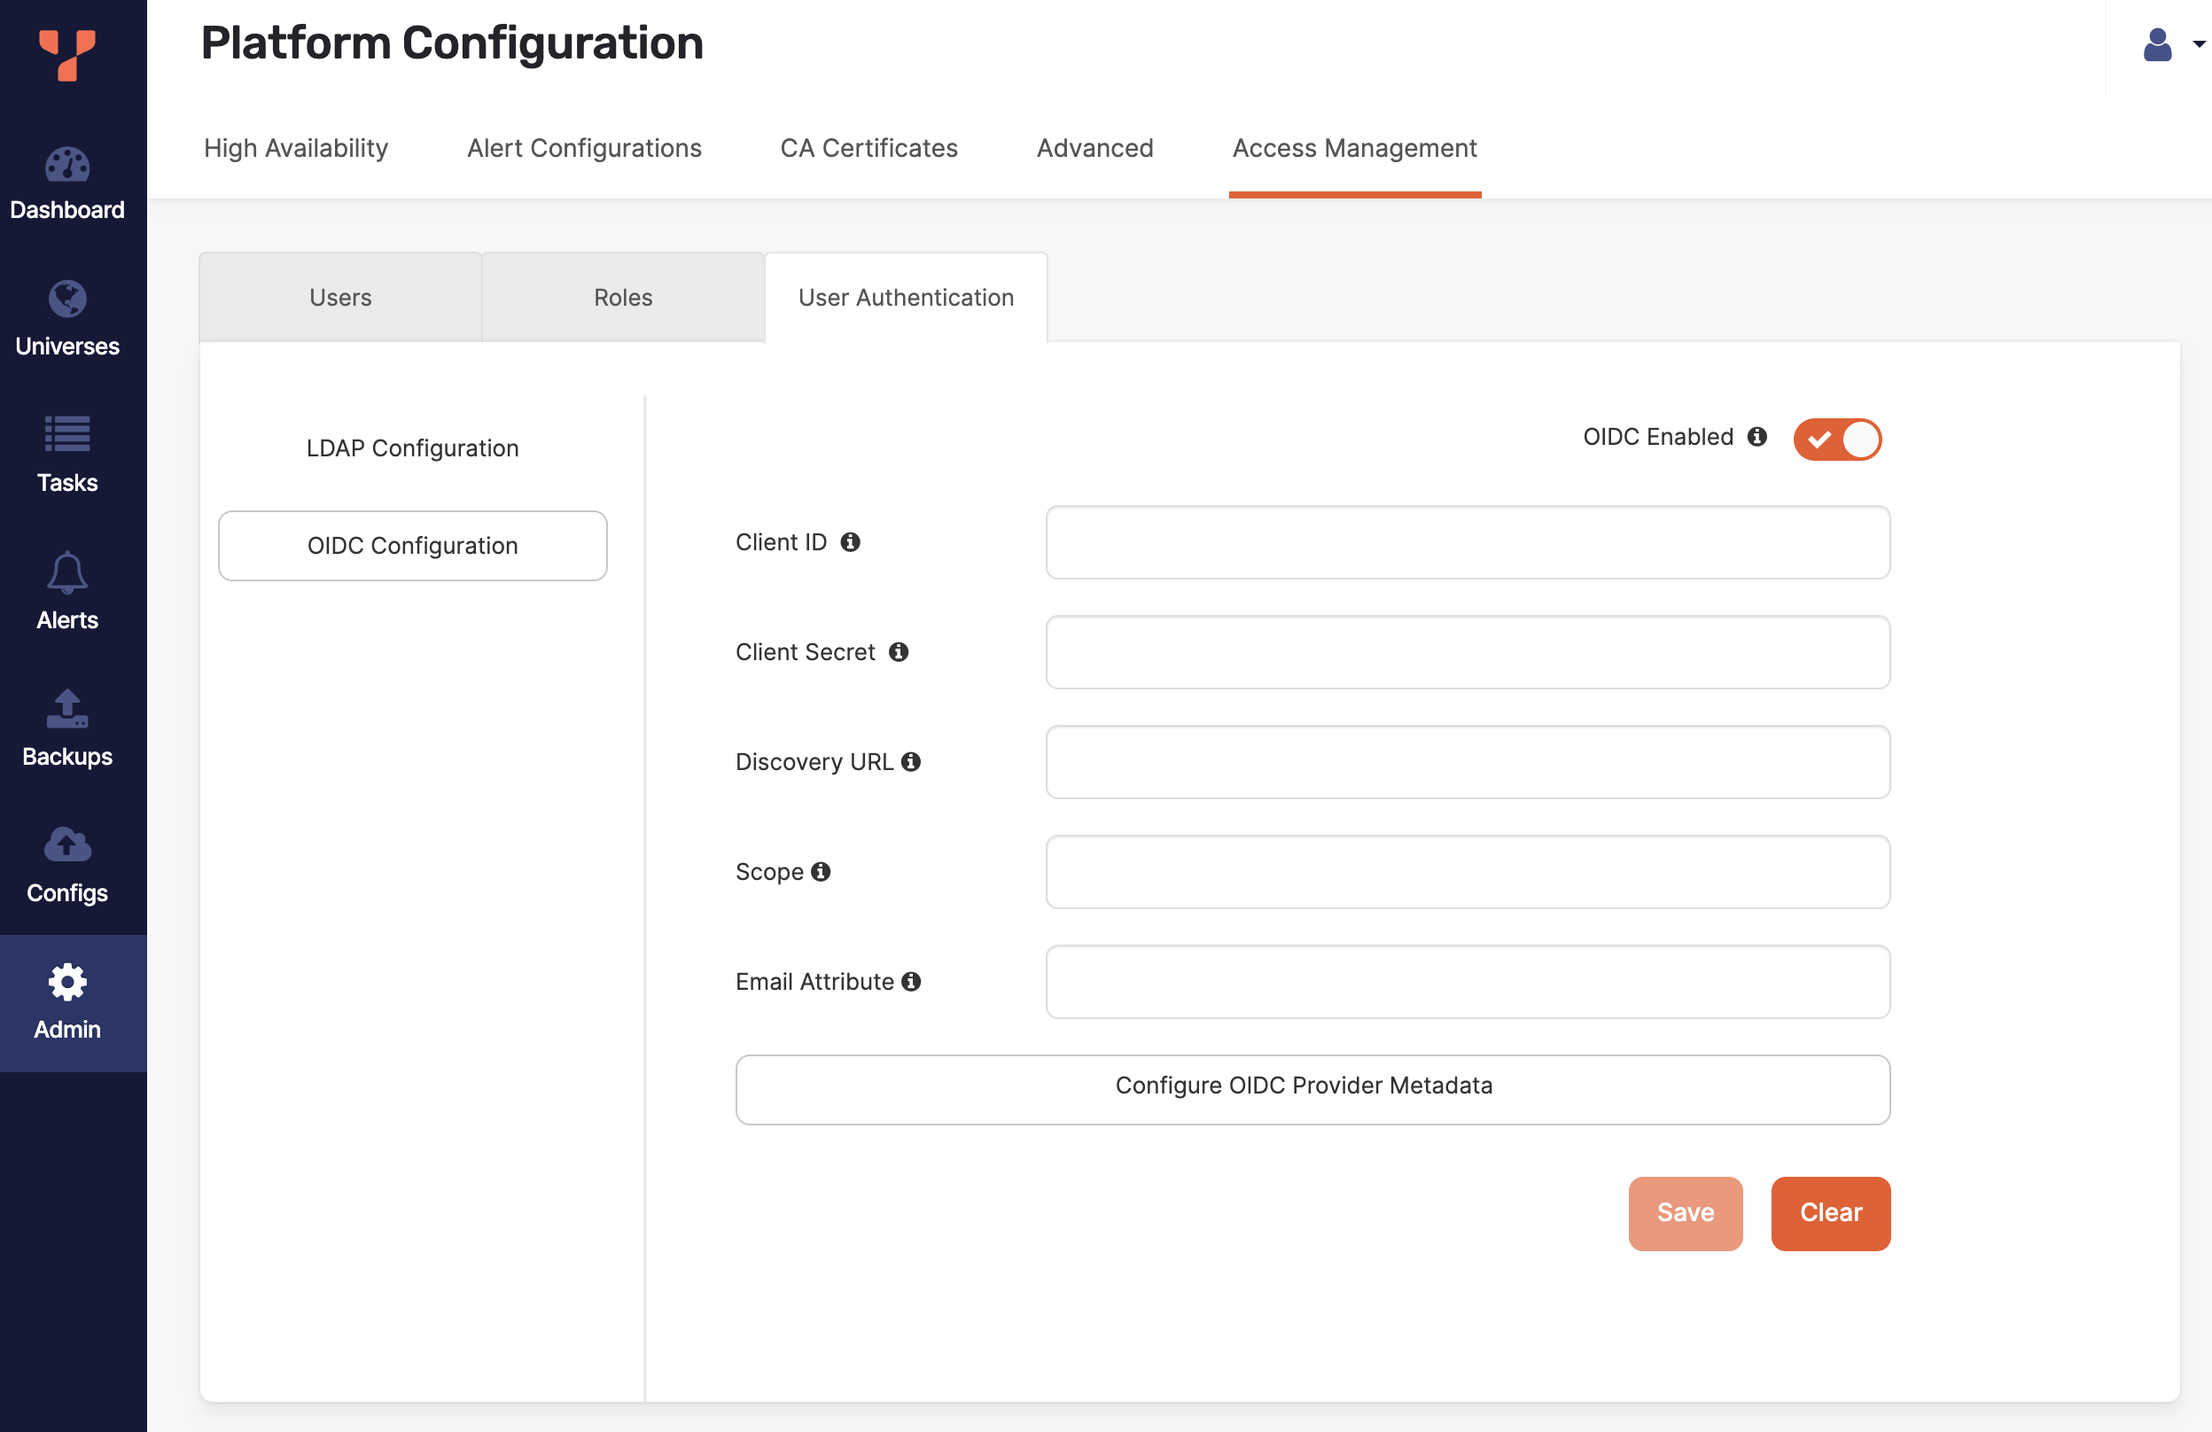
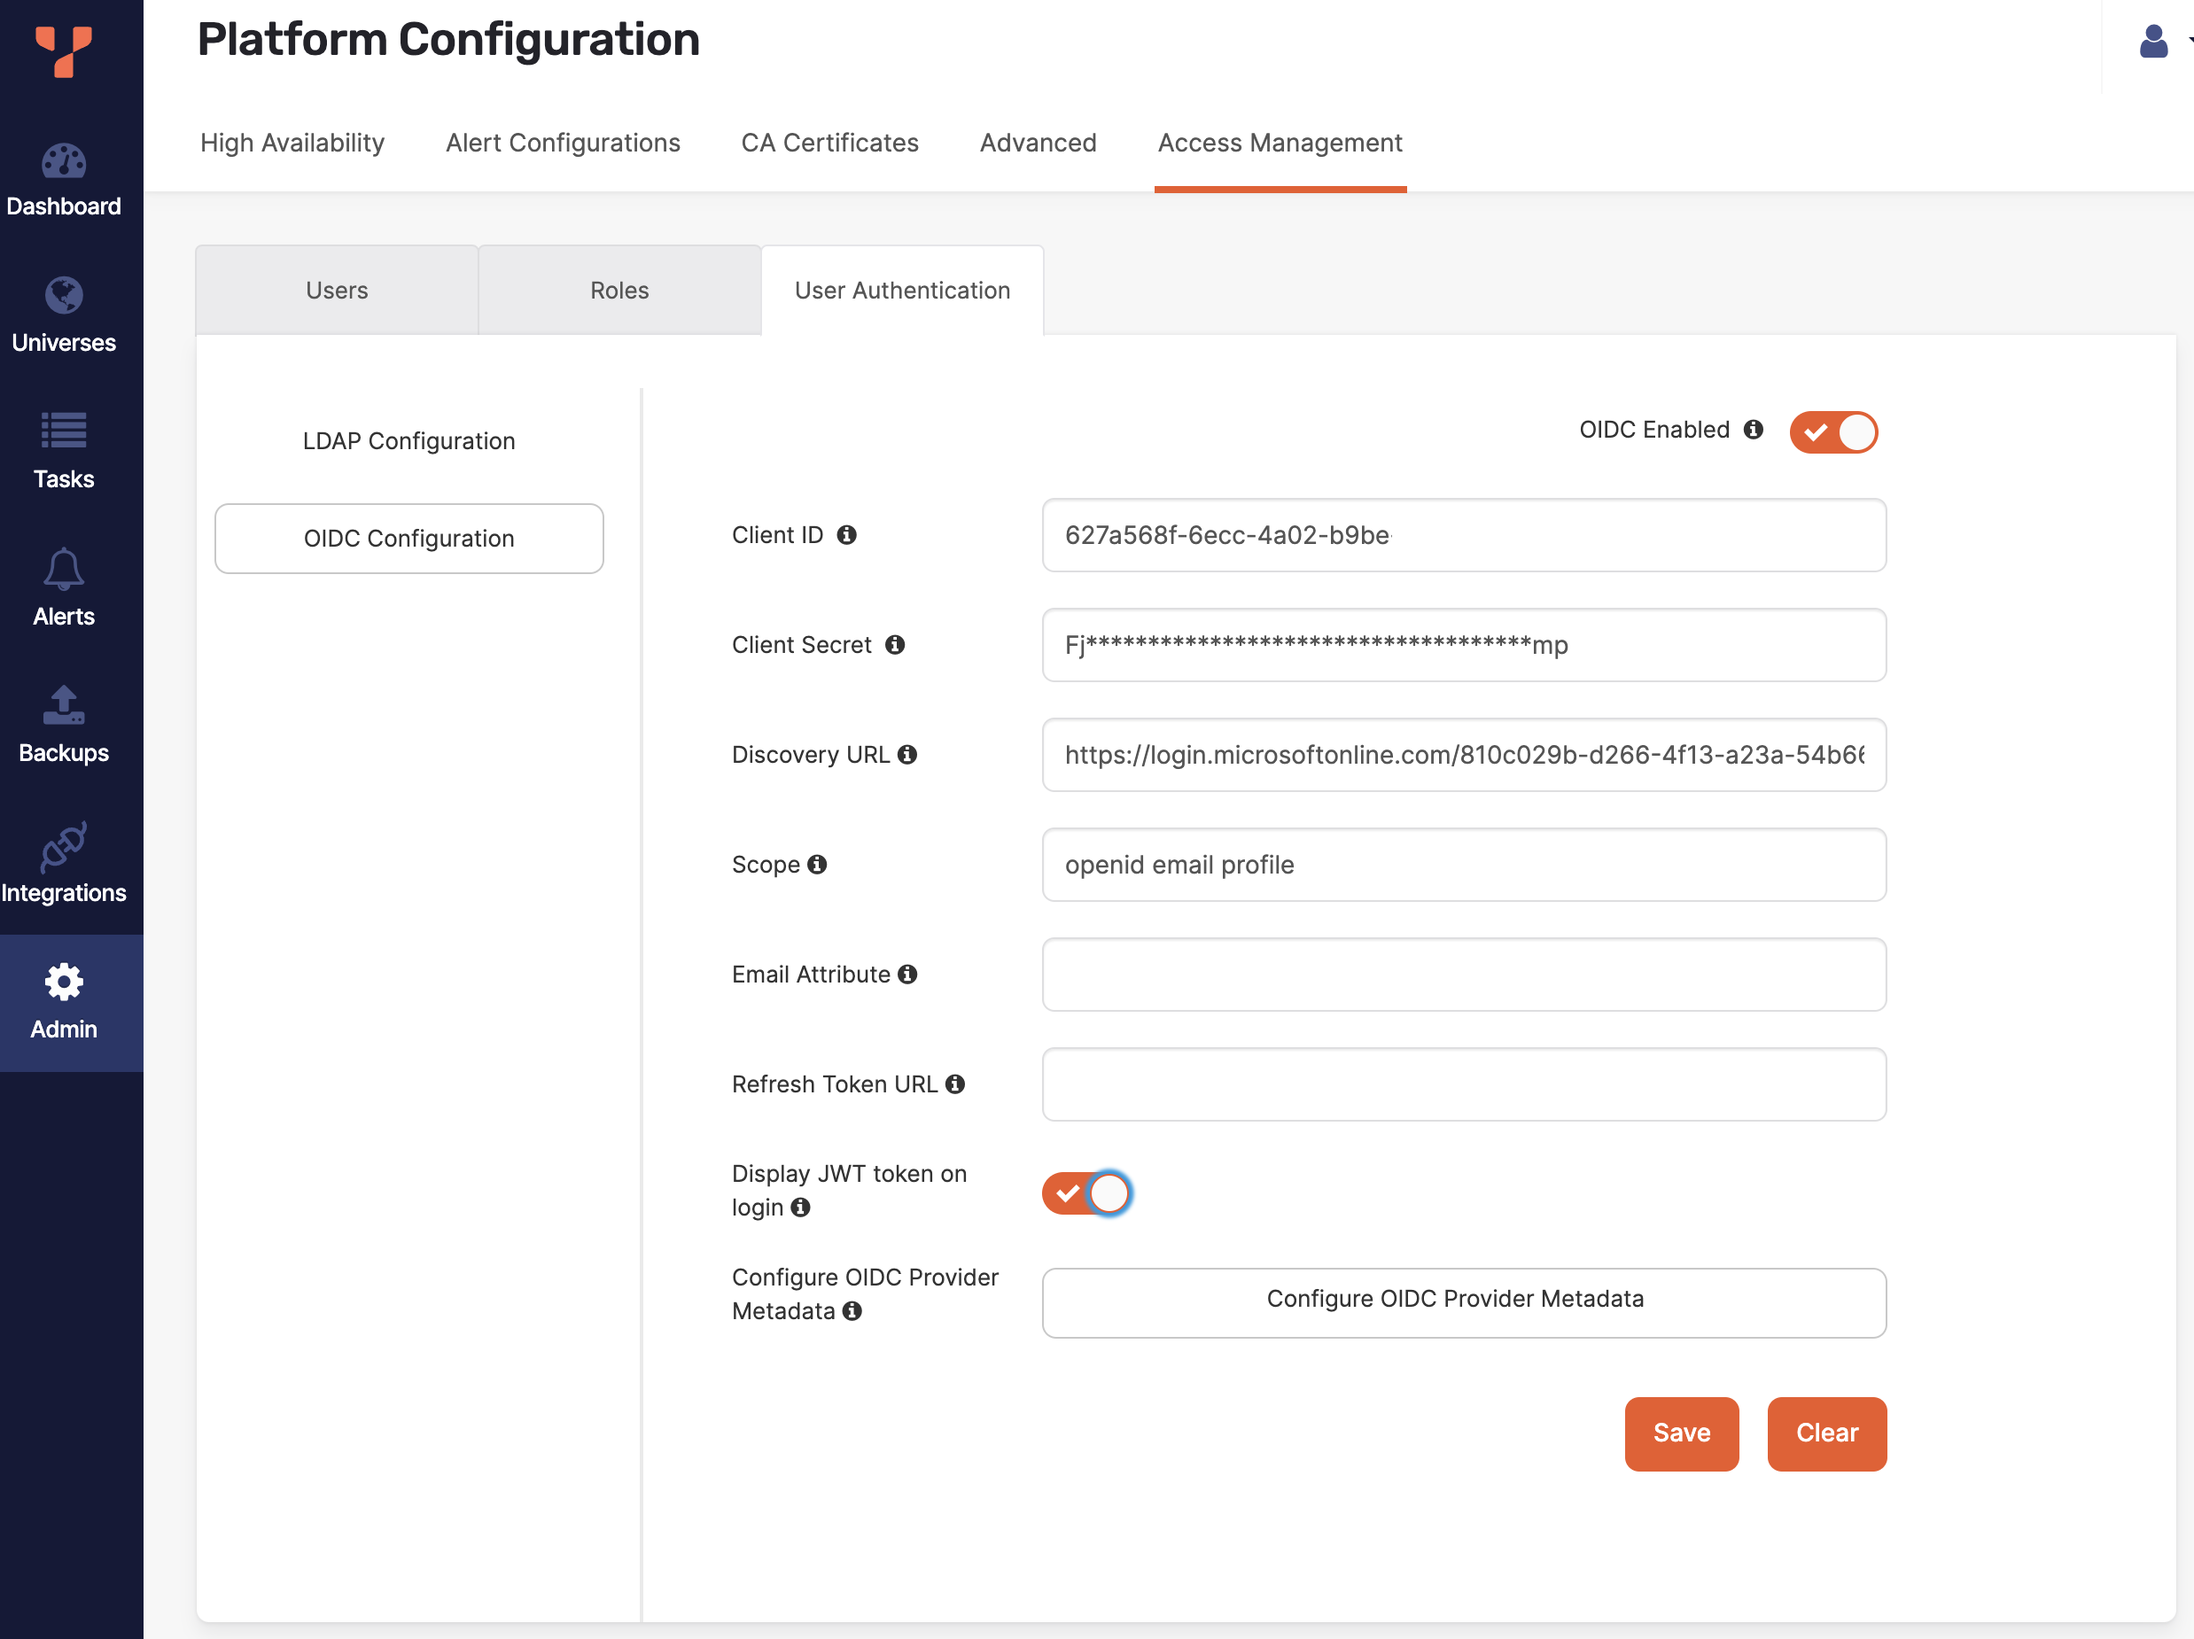
[doc][yba] add OIDC URI example (#23222)
* URI example

* DOC-418

* Update docs/content/preview/yugabyte-platform/administer-yugabyte-platform/oidc-authentication.md

* copy to other versions

* image update

diff --git a/docs/content/v2.20/yugabyte-platform/administer-yugabyte-platform/oidc-authentication.md b/docs/content/v2.20/yugabyte-platform/administer-yugabyte-platform/oidc-authentication.md
@@ -63,10 +63,13 @@ You configure OIDC as follows:
 
         [Google OIDC discovery endpoint](https://developers.google.com/identity/protocols/oauth2/openid-connect#an-id-tokens-payload) is an example of such file. For most identity providers, `/.well-known/openid-configuration` is appended to the issuer to generate the metadata URL for OIDC specifications.
 
-    - In the **Scope** field, enter your identity provider OIDC scope that is allowed to be requested. This field accepts a space-separated list of values. If left blank, all scopes will be considered.
-    - In the **Email Attribute** field, enter the OIDC scope containing the user email identifier. This field accepts a case-sensitive custom configuration. Typically, this field is left blank.
-    - If you have an airgapped installation, where YBA cannot access the Discovery URL, provide the OIDC configuration for the identity provider directly.
+        If you have an airgapped installation, where YugabyteDB Anywhere cannot access the Discovery URL, provide the OIDC configuration for the identity provider directly.
 
         To do this, click **Configure OIDC Provider Metadata** and paste the OIDC configuration document from your identity provider (in JSON format) into the field.
+
+    - In the **Scope** field, enter your identity provider OIDC scope that is allowed to be requested. This field accepts a space-separated list of values. If left blank, all scopes will be considered.
+    - In the **Email Attribute** field, enter the OIDC scope containing the user email identifier. This field accepts a case-sensitive custom configuration. Typically, this field is left blank.
+    - If you have configured OIDC to use [refresh tokens](https://openid.net/specs/openid-connect-core-1_0.html#RefreshTokens), in the **Refresh Token URL** field, enter the URL of the refresh token endpoint.
+    - If you have configured [OIDC enhancements](../../security/authentication/oidc-authentication-aad/#enable-oidc-enhancements), you can select the **Display JWT token on login** option to allow users to access their JWT from the YugabyteDB Anywhere sign in page. See [Set up OIDC with Azure AD on YugabyteDB Anywhere](../../security/authentication/oidc-authentication-aad/#set-up-oidc-with-azure-ad-on-yugabytedb-anywhere).
 
 1. Click **Save**.

diff --git a/docs/content/preview/yugabyte-platform/administer-yugabyte-platform/oidc-authentication.md b/docs/content/preview/yugabyte-platform/administer-yugabyte-platform/oidc-authentication.md
@@ -94,6 +94,7 @@ You configure OIDC as follows:
     - In the **Scope** field, enter your identity provider OIDC scope that is allowed to be requested. This field accepts a space-separated list of values. If left blank, all scopes will be considered.
     - In the **Email Attribute** field, enter the OIDC scope containing the user email identifier. This field accepts a case-sensitive custom configuration. Typically, this field is left blank.
     - If you have configured OIDC to use [refresh tokens](https://openid.net/specs/openid-connect-core-1_0.html#RefreshTokens), in the **Refresh Token URL** field, enter the URL of the refresh token endpoint.
+    - If you have configured [OIDC enhancements](../../security/authentication/oidc-authentication-aad/#enable-oidc-enhancements), you can select the **Display JWT token on login** option to allow users to access their JWT from the YugabyteDB Anywhere sign in page. See [Set up OIDC with Azure AD on YugabyteDB Anywhere](../../security/authentication/oidc-authentication-aad/#set-up-oidc-with-azure-ad-on-yugabytedb-anywhere).
 
 1. You can assign the default [role](../anywhere-rbac/#built-in-roles) for OIDC users to be ReadOnly or ConnectOnly.
 

diff --git a/docs/content/stable/yugabyte-platform/administer-yugabyte-platform/oidc-authentication.md b/docs/content/stable/yugabyte-platform/administer-yugabyte-platform/oidc-authentication.md
@@ -94,6 +94,7 @@ You configure OIDC as follows:
     - In the **Scope** field, enter your identity provider OIDC scope that is allowed to be requested. This field accepts a space-separated list of values. If left blank, all scopes will be considered.
     - In the **Email Attribute** field, enter the OIDC scope containing the user email identifier. This field accepts a case-sensitive custom configuration. Typically, this field is left blank.
     - If you have configured OIDC to use [refresh tokens](https://openid.net/specs/openid-connect-core-1_0.html#RefreshTokens), in the **Refresh Token URL** field, enter the URL of the refresh token endpoint.
+    - If you have configured [OIDC enhancements](../../security/authentication/oidc-authentication-aad/#enable-oidc-enhancements), you can select the **Display JWT token on login** option to allow users to access their JWT from the YugabyteDB Anywhere sign in page. See [Set up OIDC with Azure AD on YugabyteDB Anywhere](../../security/authentication/oidc-authentication-aad/#set-up-oidc-with-azure-ad-on-yugabytedb-anywhere).
 
 1. You can assign the default [role](../anywhere-rbac/#built-in-roles) for OIDC users to be ReadOnly or ConnectOnly.
 

diff --git a/docs/content/preview/yugabyte-platform/security/authentication/oidc-authentication-aad.md b/docs/content/preview/yugabyte-platform/security/authentication/oidc-authentication-aad.md
@@ -114,7 +114,11 @@ To register an application, do the following:
 
 1. Select the tenant for the application.
 
-1. Set the redirect URI. This is where the IdP redirects after authentication.
+1. Set the redirect URI. This is where the IdP redirects after authentication. The URI is in the following form:
+
+    ```sh
+    https://<YBA_IP_Address>/api/v1/callback?client_name=OidcClient 
+    ```
 
 1. Click **Register**.
 

diff --git a/docs/content/stable/yugabyte-platform/security/authentication/oidc-authentication-aad.md b/docs/content/stable/yugabyte-platform/security/authentication/oidc-authentication-aad.md
@@ -114,7 +114,11 @@ To register an application, do the following:
 
 1. Select the tenant for the application.
 
-1. Set the redirect URI. This is where the IdP redirects after authentication.
+1. Set the redirect URI. This is where the IdP redirects after authentication. The URI is in the following form:
+
+    ```sh
+    https://<YBA_IP_Address>/api/v1/callback?client_name=OidcClient 
+    ```
 
 1. Click **Register**.
 

diff --git a/docs/content/v2.20/yugabyte-platform/security/authentication/oidc-authentication-aad.md b/docs/content/v2.20/yugabyte-platform/security/authentication/oidc-authentication-aad.md
@@ -114,7 +114,11 @@ To register an application, do the following:
 
 1. Select the tenant for the application.
 
-1. Set the redirect URI. This is where the IdP redirects after authentication.
+1. Set the redirect URI. This is where the IdP redirects after authentication. The URI is in the following form:
+
+    ```sh
+    https://<YBA_IP_Address>/api/v1/callback?client_name=OidcClient 
+    ```
 
 1. Click **Register**.
 
